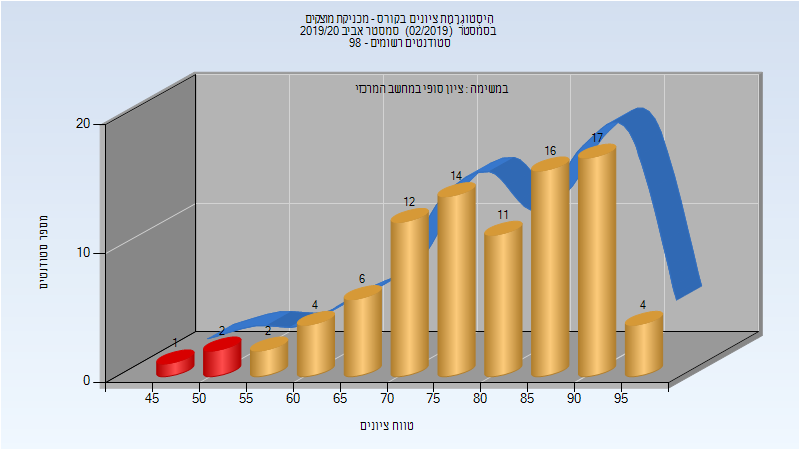
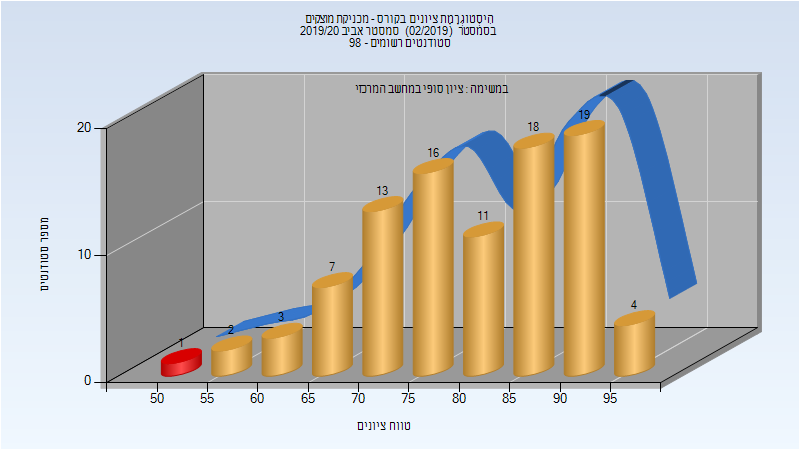
Deploy michael-maltsev/technion-histograms to github.com/michael-maltsev/technion-histograms.git:gh-pages

diff --git a/084506/index.html b/084506/index.html
@@ -366,12 +366,12 @@
 </thead>
 <tbody>
 <tr>
-<td>89</td>
-<td>86/3</td>
-<td>97</td>
-<td>47</td>
+<td>94</td>
+<td>93/1</td>
 <td>99</td>
-<td>79.697</td>
+<td>50</td>
+<td>99</td>
+<td>80.574</td>
 <td>82</td>
 </tr>
 </tbody>

diff --git a/084506/README.md b/084506/README.md
@@ -110,5 +110,5 @@
 
 | סטודנטים | עברו/נכשלו | אחוז עוברים | ציון מינימלי | ציון מקסימלי | ממוצע | חציון |
 | ---- | ---- | ---- | ---- | ---- | ---- | ---- |
-| 89 | 86/3 | 97 | 47 | 99 | 79.697 | 82 |
+| 94 | 93/1 | 99 | 50 | 99 | 80.574 | 82 |
 
